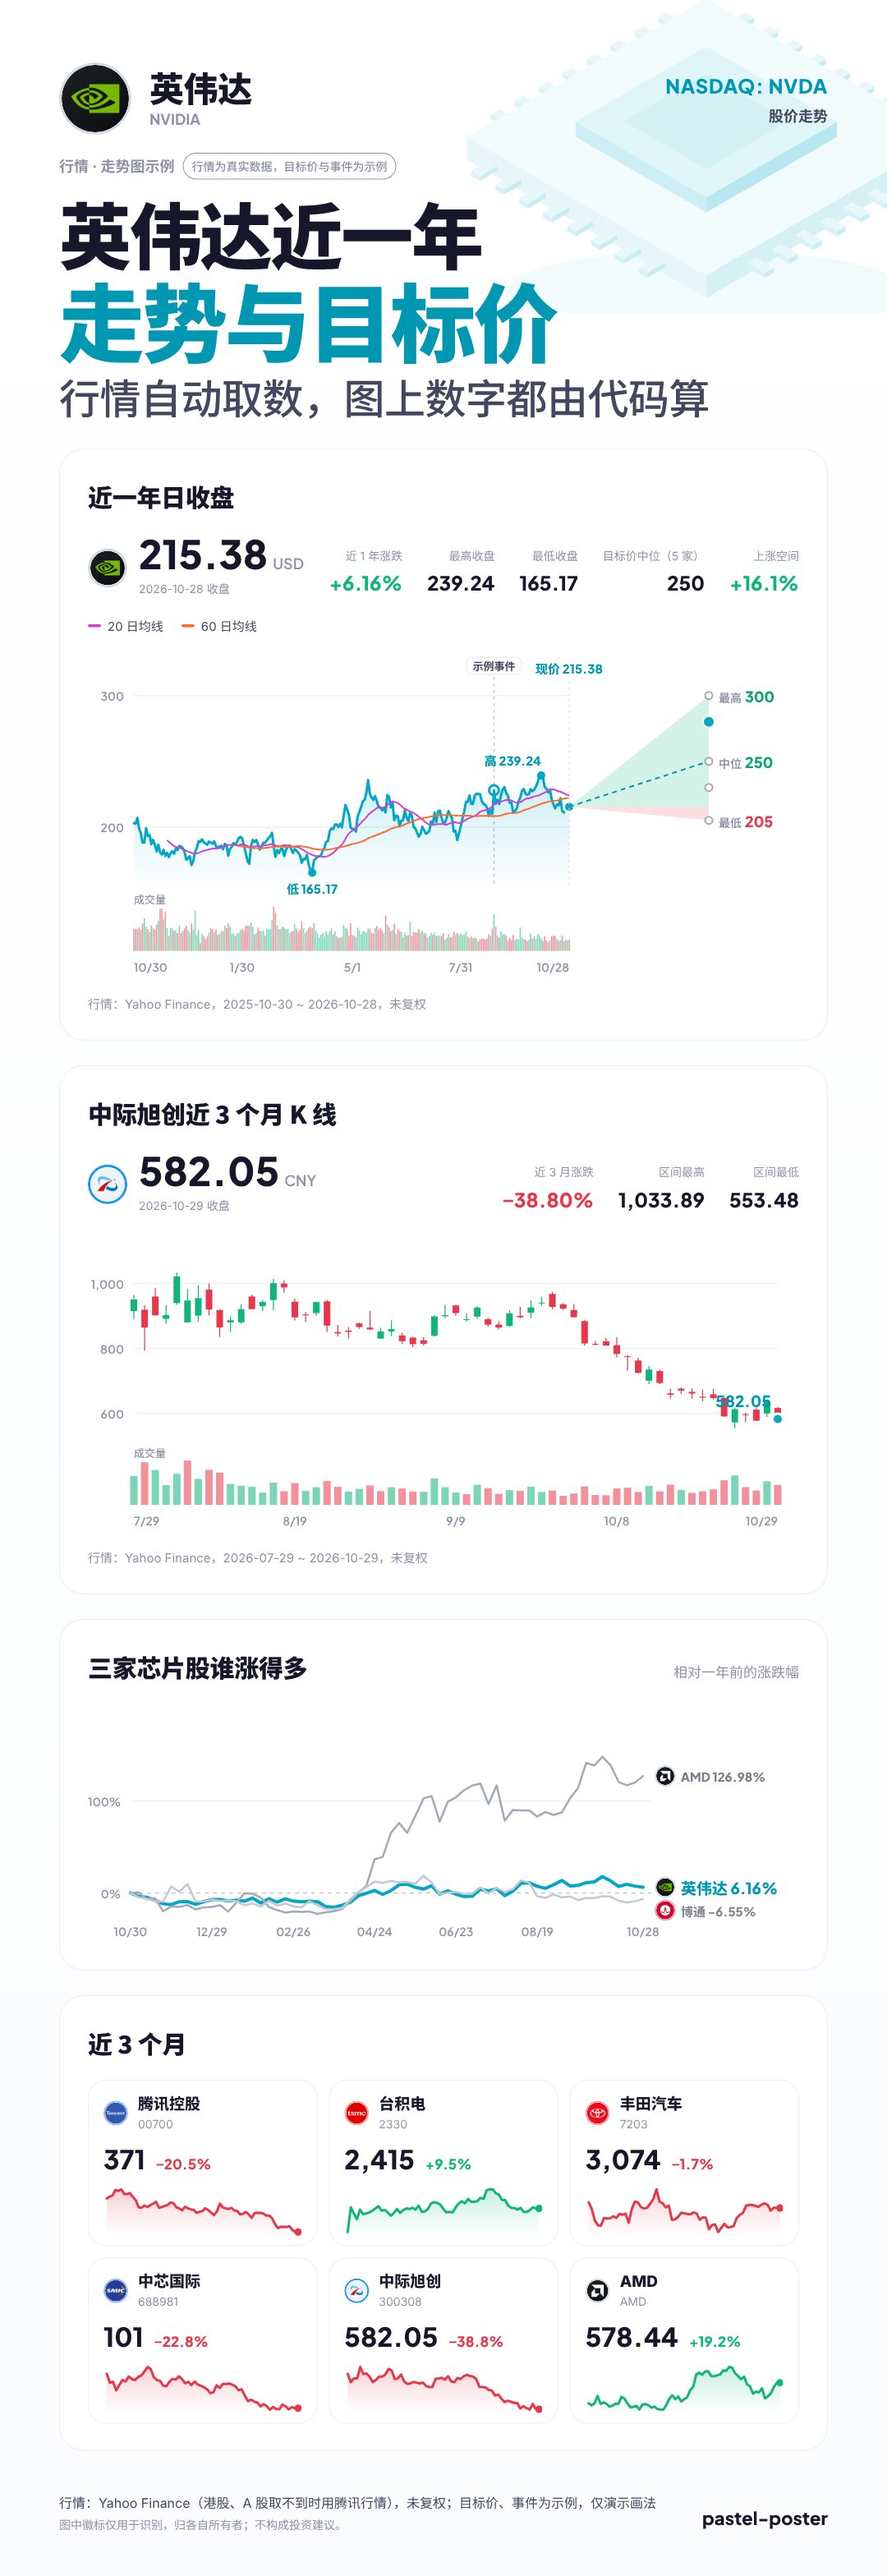
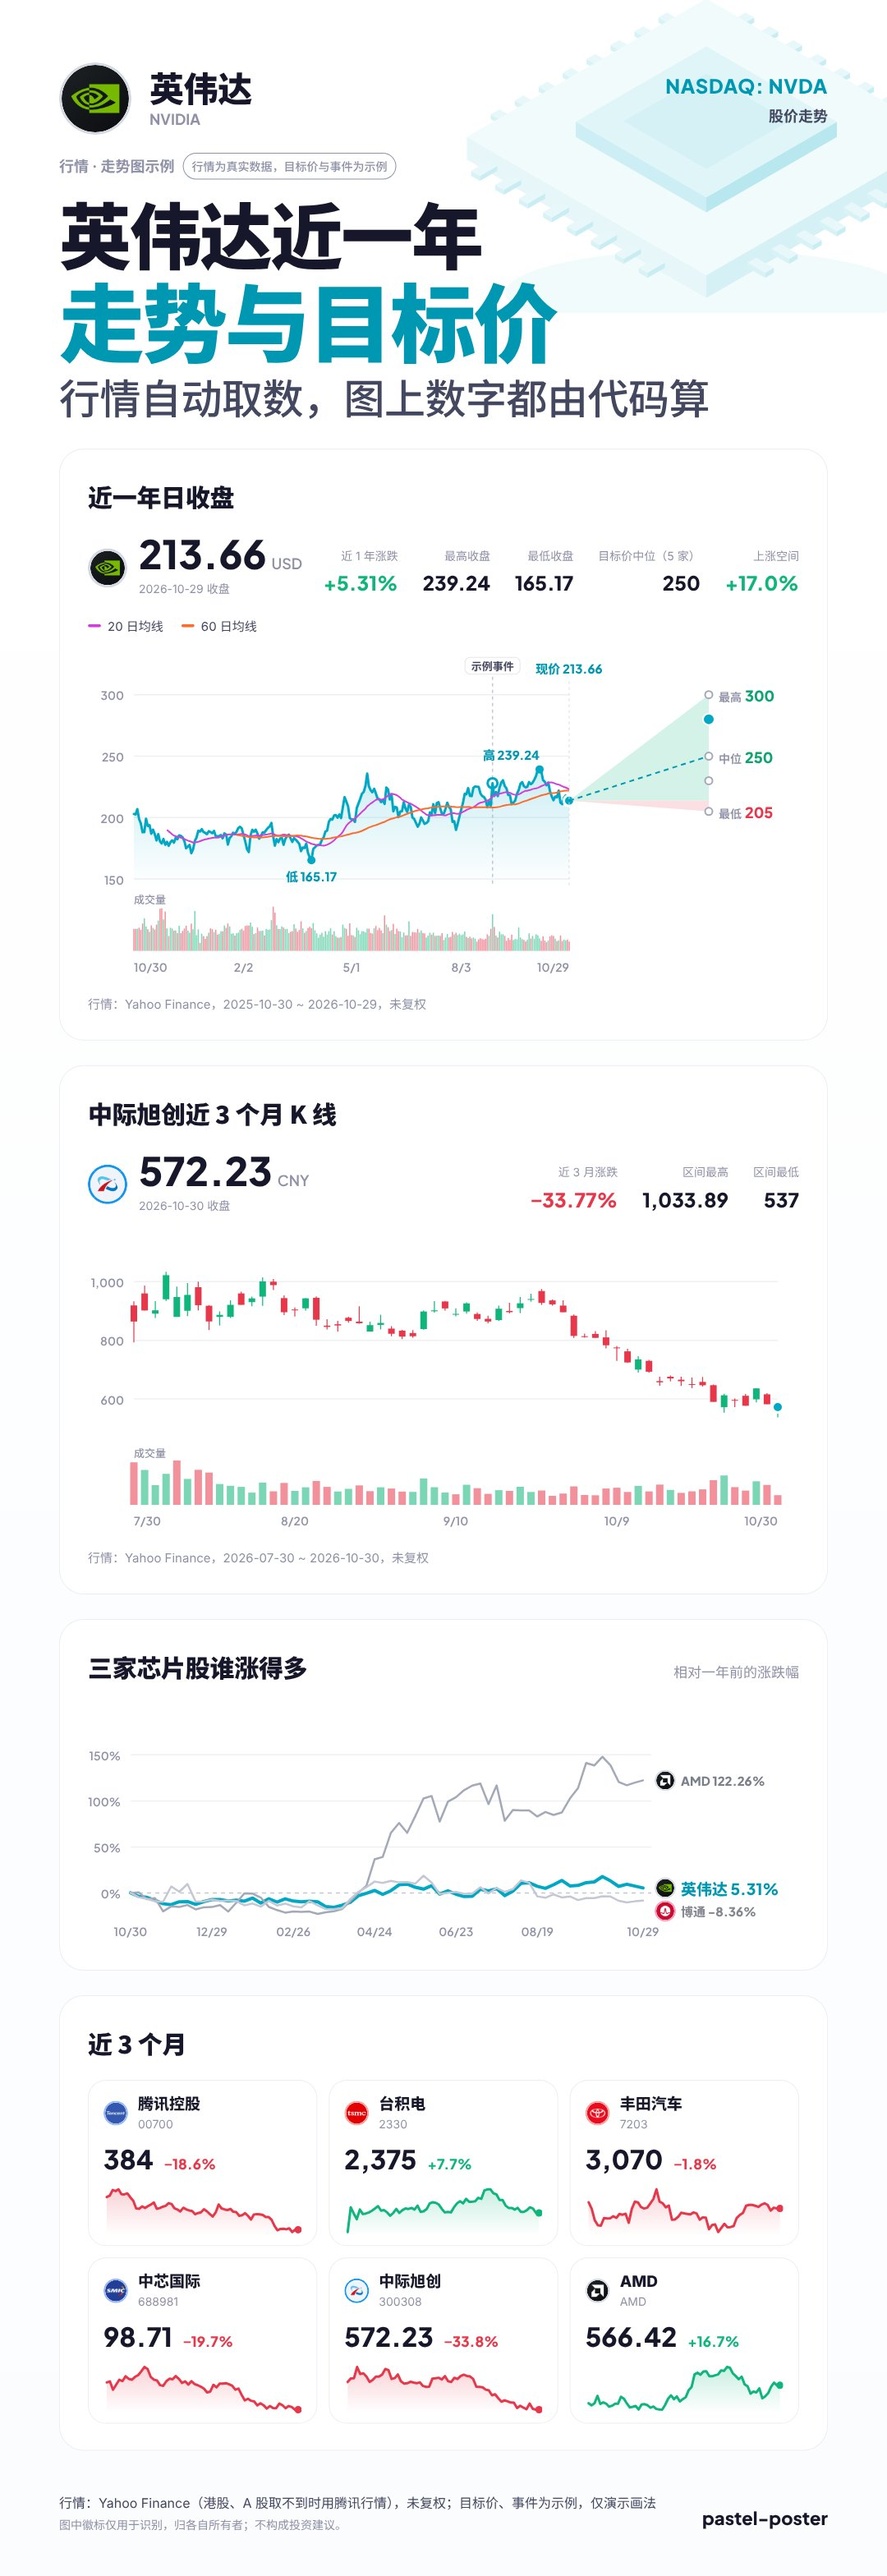
图表文字防重叠：刻度更密、负值柱留位、走势图低点标签避开日期
- 刻度按 4 段起算，不再只剩 0 和一条线
- 柱状图有负值时底部留出标签位置，不压类别名
- 走势图底部多留空，最低点在两端时标签放侧面；去掉和头部重复、压在线上的最新价
- 重新生成示例图

Claude-Session: https://claude.ai/code/session_0139H7ZCURJBvAAQ8BsmNvxP

diff --git a/skill/pastel-poster/assets/poster-template.html b/skill/pastel-poster/assets/poster-template.html
@@ -603,7 +603,7 @@ Chart.prototype.done=function(el){el.style.height=this.h+"px";
   el.innerHTML=`<svg xmlns="http://www.w3.org/2000/svg" width="${this.w}" height="${this.h}" viewBox="0 0 ${this.w} ${this.h}"><defs>${this.d.join("")}</defs>${this.s.join("")}</svg>${this.t.join("")}`};
 const vgrad=(id,c)=>`<linearGradient id="${id}" x1="0" y1="1" x2="0" y2="0"><stop offset="0" stop-color="${mix(c,W,.32)}"/><stop offset="1" stop-color="${c}"/></linearGradient>`;
 const hatch=(id,c)=>`<pattern id="${id}" width="12" height="12" patternUnits="userSpaceOnUse" patternTransform="rotate(45)"><rect width="12" height="12" fill="${mix(c,W,.8)}"/><rect width="5" height="12" fill="${c}"/></pattern>`;
-function niceTicks(lo,hi){const span=hi-lo||1,step0=span/3,mag=Math.pow(10,Math.floor(Math.log10(step0))),step=[1,2,2.5,5,10].map(m=>m*mag).find(s=>s>=step0);
+function niceTicks(lo,hi){const span=hi-lo||1,step0=span/4,mag=Math.pow(10,Math.floor(Math.log10(step0))),step=[1,2,2.5,5,10].map(m=>m*mag).find(s=>s>=step0);
   const out=[];for(let v=Math.ceil(lo/step)*step;v<=hi+1e-9;v+=step)out.push(+v.toFixed(10));return out}
 function rect(C,x,y,w,h,fill,state,c){const r=Math.min(7,h/2,w/2);
   if(state==="plan")C.svg(`<rect x="${x.toFixed(1)}" y="${y.toFixed(1)}" width="${w.toFixed(1)}" height="${h.toFixed(1)}" rx="${r}" fill="#f0f1f5" stroke="${DIM}" stroke-width="2" stroke-dasharray="7 6"/>`);
@@ -677,7 +677,7 @@ const CH={
     C.done(el)},
 
   columns(el,w,s){const ser=s.series,n=s.x.length,m=ser.length,hiOf=v=>Array.isArray(v)?v[1]:v,u=s.unit||"";
-    const all=ser.flatMap(q=>q.values.filter(v=>v!=null).map(hiOf));let hi=s.ymax??Math.max(0,...all)*1.14,lo=s.ymin??Math.min(0,...all)*1.14;
+    const all=ser.flatMap(q=>q.values.filter(v=>v!=null).map(hiOf));let hi=s.ymax??Math.max(0,...all)*1.14,lo=s.ymin??Math.min(0,...all)*1.14;if(s.ymin==null&&lo<0)lo-=(hi-lo)*.14; // 负值柱下方留出标签位置，不压类别名
     const top=36,H=s.height||210,padL=s.axis===false?0:52,C=new Chart(w,top+H+44);
     const slot=(w-padL)/n,gap=8,bw=Math.min(54,(slot*.74-(m-1)*gap)/m),gw=m*bw+(m-1)*gap,Y=v=>top+(hi-v)/(hi-lo)*H;
     if(s.axis!==false)niceTicks(lo,hi).forEach(t=>{C.svg(`<line x1="${padL}" x2="${w}" y1="${Y(t).toFixed(1)}" y2="${Y(t).toFixed(1)}" stroke="#eef0f4" stroke-width="1.5"/>`);C.text(padL-12,Y(t),fmt(t)+esc(u),"ax","r","m")});
@@ -1055,7 +1055,7 @@ CARD.add("price");
 CH.price=(el,w,s)=>{const r=s.data,n=r.length,tg=(s.targets||[]).slice().sort((a,b)=>a.tp-b.tp),tps=tg.map(t=>t.tp),candle=s.style==="candle",vol=s.volume!==false&&r.some(x=>x[5]>0);
   const top=34,H=s.height||250,VH=vol?54:0,gap=vol?24:0,fanW=tps.length?Math.min(170,w*.2):0,padL=56,padR=tps.length?fanW+110:26;
   const C=new Chart(w,top+H+gap+VH+30),f=v=>v.toFixed(1);
-  let lo=Math.min(...r.map(x=>candle?x[3]:x[4]),...tps),hi=Math.max(...r.map(x=>candle?x[2]:x[4]),...tps);const pd=(hi-lo)*.08||hi*.05;lo-=pd;hi+=pd;
+  let lo=Math.min(...r.map(x=>candle?x[3]:x[4]),...tps),hi=Math.max(...r.map(x=>candle?x[2]:x[4]),...tps);const pd=(hi-lo)*.08||hi*.05;lo-=pd*2;hi+=pd; // 底部多留空给“低”标签，不压日期
   const x0=padL,x1=w-padR,X=i=>x0+(n===1?0:i/(n-1))*(x1-x0),Y=v=>top+(hi-v)/(hi-lo)*H,c0=s.color!=null?toneHex(s.color):ACC;
   yAxis(C,lo,hi,Y,padL,x1,"");
   const long=(new Date(r.at(-1)[0])-new Date(r[0][0]))>400*864e5,fd=d=>long?`${d.slice(0,4)}/${+d.slice(5,7)}`:`${+d.slice(5,7)}/${+d.slice(8,10)}`;
@@ -1078,9 +1078,8 @@ CH.price=(el,w,s)=>{const r=s.data,n=r.length,tg=(s.targets||[]).slice().sort((a
   // 区间最高、最低点
   const hiI=r.reduce((a,x,i)=>x[4]>r[a][4]?i:a,0),loI=r.reduce((a,x,i)=>x[4]<r[a][4]?i:a,0),edge=i=>X(i)<x0+60?"l":X(i)>x1-60?"r":"c";
   if(!candle){C.svg(`<circle cx="${f(X(hiI))}" cy="${f(Y(r[hiI][4]))}" r="5" fill="${c0}"/><circle cx="${f(X(loI))}" cy="${f(Y(r[loI][4]))}" r="5" fill="${c0}"/>`);
-    C.text(X(hiI),Y(r[hiI][4])-10,`高 ${fmt(r[hiI][4])}`,"sm",edge(hiI),"b",ink(c0));C.text(X(loI),Y(r[loI][4])+10,`低 ${fmt(r[loI][4])}`,"sm",edge(loI),"t",ink(c0))}
+    C.text(X(hiI),Y(r[hiI][4])-10,`高 ${fmt(r[hiI][4])}`,"sm",edge(hiI),"b",ink(c0));const le=edge(loI);le==="c"?C.text(X(loI),Y(r[loI][4])+10,`低 ${fmt(r[loI][4])}`,"sm","c","t",ink(c0)):C.text(X(loI)+(le==="l"?12:-12),Y(r[loI][4]),`低 ${fmt(r[loI][4])}`,"sm",le,"m",ink(c0))} // 最低点在两端时标签放侧面，不压首尾日期
   const lx=X(n-1),ly=Y(r[n-1][4]);C.svg(`<circle cx="${f(lx)}" cy="${f(ly)}" r="6.5" fill="${c0}" stroke="#fff" stroke-width="3"/>`);
-  if(!tps.length)C.text(lx-8,ly-12,fmt(r[n-1][4]),"","r","b",ink(c0));
   // 喇叭口：从最新收盘向各家目标价的最高 / 中位 / 最低张开，高于现价淡涨色、低于现价淡跌色
   if(tps.length){const xe=x1+fanW,med=tps[tps.length>>1],th=tps.at(-1),tl=tps[0],tri=(a,b,c)=>`<polygon points="${f(lx)},${f(ly)} ${f(xe)},${f(a)} ${f(xe)},${f(b)}" fill="${c}"/>`;
     C.svg(`<line x1="${f(lx)}" x2="${f(lx)}" y1="${top}" y2="${top+H}" stroke="#d5d9e2" stroke-dasharray="3 4"/>`);
